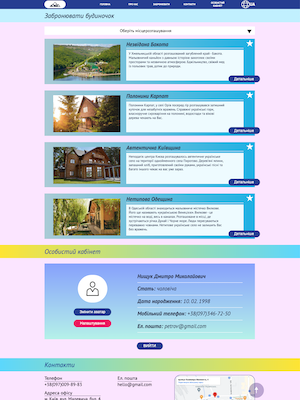
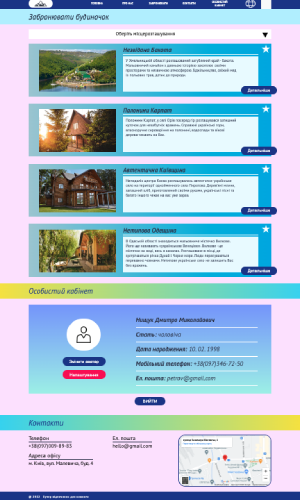
Added possibility filter sites by skills. Added media queries for big screens. Standardised ratio of site imgs. Added smooth scrolling. Fixed links in ReadMe file.

diff --git a/src/components/portfolio/Portfolio.jsx b/src/components/portfolio/Portfolio.jsx
@@ -1,7 +1,6 @@
 import React, { useEffect, useState } from 'react';
 import './Portfolio.css'
 import dapperBully from '../../img/sites/markup/dapperBully.png'
-import gta from '../../img/sites/markup/GTA.png'
 import stars from '../../img/sites/markup/Stars.png'
 import ukraine from '../../img/sites/markup/Ukraine.png'
 import hotel from '../../img/sites/markup/hotel.png'
@@ -11,51 +10,84 @@ import timer from '../../img/sites/js/timer.png'
 import calc from '../../img/sites/js/calc.png'
 import PortfolioCategories from '../portfolio-categories/PortfolioCategories';
 import PortfolioSites from '../portfolio-sites/PortfolioSites';
-import { _BOOTSTRAP, _CSS, _HTML, _JS, _REACT, _RESPONSIVE_DESIGN, _SCSS } from '../../utils/const';
+import { _BOOTSTRAP, _CSS, _HTML, _JS, _REACT, _RESPONSIVE_DESIGN, _SCSS, _GIT, _FIGMA } from '../../utils/const';
 
-const Portfolio = () => {
+const Portfolio = ({selectedSkill, resetSkill}) => {
     const ALL = 'All'
     const REACT = 'React'
     const JS = 'JS'
     const MARKUP = 'Markup (HTML+CSS)'
 
-    const categories = [ALL, REACT, JS, MARKUP]
+    const standardCategories = [ALL, REACT, JS, MARKUP]
     
     const sites = [
         {alt:'Barber shop site', href:'http://lia.infinityfreeapp.com/hw8/', git:'https://github.com/AriannaLiss/htmlCSS/tree/master/hw8', src: dapperBully, categories:[MARKUP], skills:[_BOOTSTRAP,_RESPONSIVE_DESIGN]},
         {alt:'Pacman', href:'http://ariannaliss.github.io/pacman/', git:'https://github.com/AriannaLiss/pacman', src: pacman, categories:[JS], skills:[_JS,_HTML,_CSS]},
-        {alt:'Todo', href:'https://ariannaliss.github.io/mood-adviser/', git:'https://github.com/AriannaLiss/mood-adviser', src: todo, categories:[REACT], skills:[_REACT]},//onClick: openers.todo , 
+        {alt:'Todo', href:'https://ariannaliss.github.io/mood-adviser/', git:'https://github.com/AriannaLiss/mood-adviser', src: todo, categories:[REACT], skills:[_REACT]}, 
         {alt:'Hotel Reservation site', href:'http://lia.infinityfreeapp.com/hw5/', git:'https://github.com/AriannaLiss/htmlCSS/tree/master/hw5', src: stars, categories:[MARKUP], skills:[_HTML,_CSS]},
         {alt:'Site about Ukraine', href:'http://lia.infinityfreeapp.com/hw3/', git:'https://github.com/AriannaLiss/htmlCSS/tree/master/hw3', src: ukraine, categories:[MARKUP], skills:[_HTML,_CSS]},
         {alt:'Calculator', href:'http://ariannaliss.github.io/calc/', git:'https://github.com/AriannaLiss/calc', src: calc, categories:[JS], skills:[_JS]},
         {alt:'Timer', href:'http://ariannaliss.github.io/timer/', git:'https://github.com/AriannaLiss/timer', src: timer, categories:[JS], skills:[_JS]},
-        {alt:'Site in GTA style', href:'http://lia.infinityfreeapp.com/hw4/', git:'https://github.com/AriannaLiss/htmlCSS/tree/master/hw4', src: gta, categories:[MARKUP], skills:[_HTML,_CSS]},
         {alt:'Hotel', href:'https://ariannaliss.github.io/hotel/', git:'https://github.com/AriannaLiss/hotel', src: hotel, categories:[MARKUP], skills:[_HTML,_SCSS]},
     ]
-
+    
+    const [categories, setCategories] = useState(standardCategories);
     const [selectedCategory, setSelectedCategory] = useState(ALL);
     const [selectedSites, setSelectedSites] = useState(sites);
 
     const filter = () => {
         selectedCategory === ALL
             ? setSelectedSites(sites)
-            : setSelectedSites(sites.filter(site => site.categories && site.categories.includes(selectedCategory)));
+            : setSelectedSites(sites.filter(site => (site.categories && site.categories.includes(selectedCategory))|| (site.skills&&site.skills.includes(selectedCategory))));
+    }
+
+    const changeCategory = (category) => {
+        if (category == selectedSkill) return;
+        setSelectedCategory(category);
+        setCategories(standardCategories);
+        resetSkill();
+    }
+
+    const getNewCategory = () => {
+        if (!selectedSkill){
+            return;
+        }
+        if (selectedSkill == _GIT) {
+            setSelectedCategory(ALL);
+            return;
+        }
+        if (selectedSkill == REACT || selectedSkill == JS) {
+            setSelectedCategory(selectedSkill);
+            return;
+        }
+        if ([_HTML, _CSS, _FIGMA].includes(selectedSkill)){
+            setSelectedCategory(MARKUP);
+            return;
+        }
+        setSelectedCategory(selectedSkill);
+        return selectedSkill
     }
 
     useEffect(()=>{
         filter()
     },[selectedCategory])
 
+    useEffect(()=>{
+        const category = getNewCategory();
+        setCategories(category?[...standardCategories,category]: [...standardCategories]);
+    },[selectedSkill])
+
     return (
         <section id='portfolio'>
             <PortfolioCategories
                 categories={categories}
                 selectedCategory = {selectedCategory}
-                setSelectedCategory={setSelectedCategory}
+                setSelectedCategory={changeCategory}
             />
             <PortfolioSites 
                 sites={selectedSites} 
                 isReact={selectedCategory==REACT}
+                isResponsive={selectedCategory==_RESPONSIVE_DESIGN}
             />
         </section>
     );

diff --git a/src/components/skills/Skills.jsx b/src/components/skills/Skills.jsx
@@ -4,12 +4,13 @@ import {SKILLS as skills} from '../../utils/const.js'
 import HireMe from '../../ui/hire-me/HireMe';
 import Text from '../../ui/text/Text';
 
-const Skills = () => {
+const Skills = ({selectedSkill, setSkill}) => {
     const text = {
         title:'my skills',
         subtitle: 'What My Programming Skills Included?',
         text: [`I can reslove your tasks and create responsive web applications with these technologies:`]
     }
+
     return (
         <section id='skills'>
             <div  className="skills">
@@ -17,15 +18,27 @@ const Skills = () => {
                     <Text {...text}/>  
                     <div className='skills__text'>
                         {skills.map(skill=>
-                            <div className='skill__text' key={skill.alt}>{skill.alt}</div>
+                            <a 
+                                className={skill.alt===selectedSkill?'skill__text selected-category':'skill__text'} 
+                                onClick={()=>setSkill(skill.alt)}
+                                key={skill.alt} 
+                                href='#portfolio'
+                            >
+                                {skill.alt}
+                            </a>
                         )}
                     </div>
                 </div>
                 <div className="skills__icons">
                     {skills.map(skill => 
-                        <div className="skill" key={skill.alt} title={skill.alt}>
+                        <a 
+                            className={skill.alt===selectedSkill?'skill selected-category':'skill'}
+                            key={skill.alt} title={skill.alt}  
+                            onClick={()=>setSkill(skill.alt)}
+                            href='#portfolio'
+                        >
                             <img {...skill}/>
-                        </div>
+                        </a>
                     )}
                 </div>
             </div>

diff --git a/src/components/portfolio-sites/PortfolioSites.css b/src/components/portfolio-sites/PortfolioSites.css
@@ -13,10 +13,6 @@
     position: relative;
 }
 
-.pair_columns .site{
-    max-width: 48%;
-}
-
 .site:hover{
     transform: scale(1.1);
 }
@@ -59,16 +55,17 @@
     text-transform: uppercase;
     font-size: large;
     font-weight: bold;
-    display:flex;
 }
 
 .site__click{
+    display:flex;
     background-color: black;
     color: white;
     height:100%;
 }
 
 .site__git{
+    display: none;
     height:0;
     color:black;
     background-color: var(--yellow);
@@ -80,15 +77,16 @@
    color: var(--llGrey)
 }
 
-.reactSign{
+.site-msg{
     display:flex;
     justify-content: center;
     align-items: center;
     border: 2px solid white;
     border-radius: 3rem;
+    max-width: 300px;
 }
 
-.reactSign p{
+.site-msg p{
     max-width: 80%;
     margin: 3rem;
     font-size: 2rem;
@@ -103,26 +101,26 @@
 }
 
 @media screen and (max-width: 666px){
-    .reactSign p{
+    .site-msg p{
         font-size: 1.5rem;
         line-height: 3rem;;
     }
 }
 
 @media screen and (max-width: 526px){
-    .reactSign p{
+    .site-msg p{
         font-size: 1rem;
         line-height: 2rem;;
     }
 }
 
 @media screen and (max-width: 402px){
-    .reactSign p{
+    .site-msg p{
         line-height: 1.5rem;;
     }
 }
 
-@media screen and (max-width: 359px){
+@media screen and (max-width: 370px){
     .site{
         max-width: 90%;
     }

diff --git a/src/components/portfolio-sites/PortfolioSites.jsx b/src/components/portfolio-sites/PortfolioSites.jsx
@@ -1,9 +1,9 @@
 import React from 'react';
 import './PortfolioSites.css'
 
-const PortfolioSites = ({sites, isReact}) => {
+const PortfolioSites = ({sites, isReact, isResponsive}) => {
     return (
-        <div className={sites.length%2==0&&sites.length%3!=0 ? 'sites pair_columns' : 'sites'}>
+        <div className='sites'>
             {sites.length 
                 ? sites.map( site => 
                     <div
@@ -24,7 +24,8 @@ const PortfolioSites = ({sites, isReact}) => {
                 ) 
                 : <div className='noSites'>Here is no sites in this category yet.</div>
             }
-            {isReact&&<div className='site reactSign'><p>This site is also created on React<br/>and there are few projects now in developing stage</p></div>}
+            {isReact&&<div className='site site-msg'><p>This site is also created on React<br/>and there are few projects now in developing stage</p></div>}
+            {isResponsive&&<div className='site site-msg'><p>Resonsive design is also implemented for this portfolio.</p></div>}
         </div>
     );
 };

diff --git a/src/App.jsx b/src/App.jsx
@@ -1,4 +1,5 @@
 import React from 'react';
+import { useState } from 'react';
 import './App.css'
 import About from './components/about/About';
 import Footer from './components/footer/Footer';
@@ -8,14 +9,20 @@ import Presentation from './components/presentation/Presentation';
 import Skills from './components/skills/Skills';
 
 const App = () => {
+    const [selectedSkill, setSkill] = useState();
+    
+    const resetSkill = () => {
+        setSkill(undefined);
+    }
+
     return (
         <>
             <div className='container'>
                 <Menu/>
                 <Presentation/>
                 <About/>
-                <Skills/>
-                <Portfolio/>
+                <Skills selectedSkill={selectedSkill} setSkill={setSkill}/>
+                <Portfolio selectedSkill={selectedSkill} resetSkill={resetSkill}/>
             </div>
             <Footer/>
         </>

diff --git a/src/components/portfolio-categories/PortfolioCategories.jsx b/src/components/portfolio-categories/PortfolioCategories.jsx
@@ -8,7 +8,13 @@ const PortfolioCategories = ({categories, selectedCategory, setSelectedCategory}
                 <h2 className='subtitle'>Featured Works<span className='clue'>(clickable)</span></h2>
                 <div className="categories">
                     {categories.map(category => 
-                        <div key={category} className={selectedCategory==category?"selected-category category":"category"} onClick={() => setSelectedCategory(category)}>{category}</div>
+                        <div 
+                            key={category} 
+                            className={selectedCategory==category?"selected-category category":"category"} 
+                            onClick={() => setSelectedCategory(category)}
+                        >
+                            {category}
+                        </div>
                     )}
                 </div>
         </div>

diff --git a/src/App.css b/src/App.css
@@ -14,6 +14,10 @@
     font-weight: 400;
 }
 
+*,html{
+    scroll-behavior: smooth;
+}
+
 ul{
     margin:0;
     padding:0;
@@ -38,7 +42,7 @@ body a{
     margin: 0 auto;
     width: 90%;
     min-width:10rem;
-    max-width:100rem
+    max-width:100rem;  
 }
 
 section{
@@ -94,6 +98,16 @@ h1{
 .right{
     display: flex;
     justify-content: end;
+}
+
+@media screen and (min-width: 2000px){
+    :root{
+        font-size: 15px;
+    }
+    .container{
+        max-width:200rem;
+        width:80%;
+    }
 }
 
 @media screen and (max-width: 548px){

diff --git a/src/components/skills/Skills.css b/src/components/skills/Skills.css
@@ -26,6 +26,7 @@
     border-radius: 1rem;
     display: block;
     text-align: right;
+    color: white;
 }
 
 .skill, .skill__text{
@@ -52,6 +53,13 @@
 
 .skill > img{
     height:100%;
+}
+
+@media screen and (min-width: 2000px){
+    .skills__icons{
+        width:auto;
+        margin:0;
+    }
 }
 
 @media screen and (max-width: 979px){

diff --git a/src/components/portfolio-categories/PortfolioCategories.css b/src/components/portfolio-categories/PortfolioCategories.css
@@ -38,7 +38,7 @@
     }
 }
 
-@media screen and (max-width: 479px){
+@media screen and (max-width: 590px){
     .category{
         padding: 0.5rem 1rem;
         margin:.1rem;
@@ -48,7 +48,7 @@
     }
 }
 
-@media screen and (max-width: 312px){
+@media screen and (max-width: 420px){
     .categories{
         flex-wrap: wrap;
     }

diff --git a/README.md b/README.md
@@ -5,13 +5,13 @@ This project was created for presenting my jobs. All sites are clickable - you c
 
 ## Contacts
 
-Tel: +420731022655	
-E-mail: lidiia.kalakutska@gmail.com 
-Location: Czech Republic - Usti nad Orlice (Remote)
-LinkedIn: https://www.linkedin.com/in/lidiia-kalakutska-61418118b/
-GitHub: https://github.com/AriannaLiss
-Portfolio: https://ariannaliss.github.io/portfolio/
-CV: https://www.figma.com/proto/lke6xTQfWXHCTNP9JyPgzN/CV---Lidiia-Kalakutska---FrontEnd-developer-(React)?node-id=2-20
+Tel: [+(420) 731 022 655](tel:+420731022655)\
+E-mail: [lidiia.kalakutska@gmail.com](mailto:lidiia.kalakutska@gmail.com) \
+Location: Czech Republic - Usti nad Orlice (Open for remote)\
+[LinkedIn](https://www.linkedin.com/in/lidiia-kalakutska-61418118b/) 
+[GitHub](https://github.com/AriannaLiss) 
+[Portfolio](https://ariannaliss.github.io/portfolio/) 
+[CV](https://www.figma.com/proto/lke6xTQfWXHCTNP9JyPgzN/CV---Lidiia-Kalakutska---FrontEnd-developer-(React)?node-id=2-20)
 
 ## Skills
 
